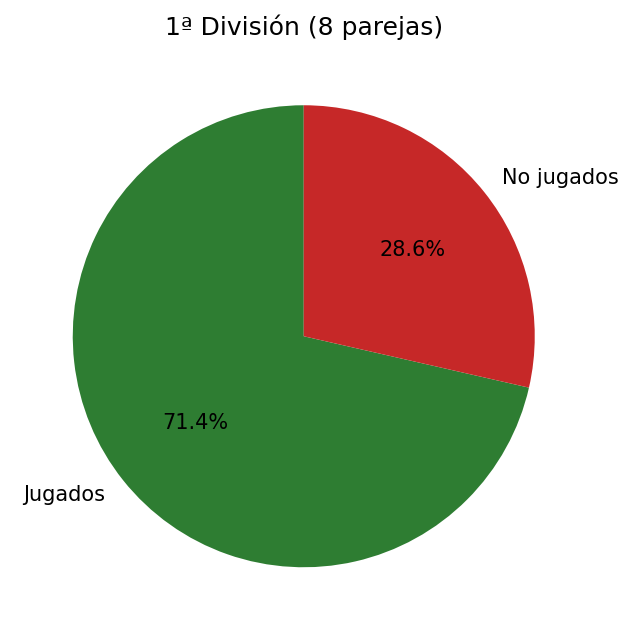
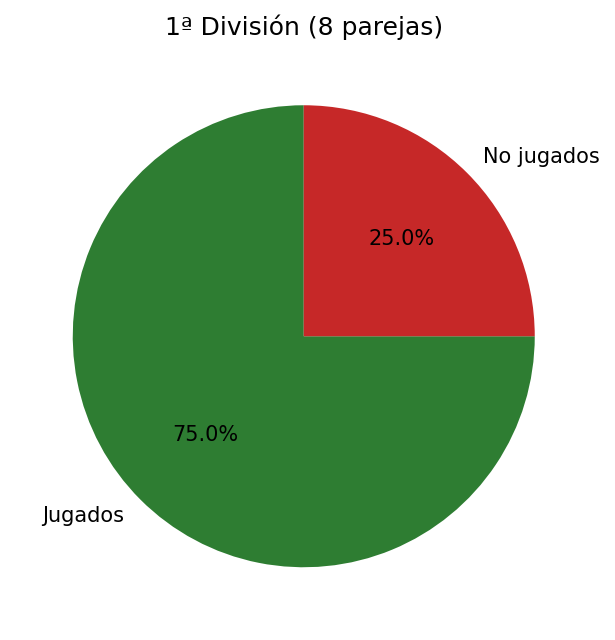
Add functions for match count calculations and update summary output in estadoLiga.py

diff --git a/sources/estadoLiga.py b/sources/estadoLiga.py
@@ -17,6 +17,18 @@ def division_sort_key(name):
     return int(match.group()) if match else 999
 
 
+def unique_match_count(pair_match_count):
+    return pair_match_count / 2
+
+
+def expected_match_count(pair_count):
+    return pair_count * (pair_count - 1) // 2
+
+
+def format_match_count(value):
+    return int(value) if value == int(value) else value
+
+
 base_dir = Path(__file__).resolve().parent
 data_file = base_dir / "clasificacion.json"
 api_base = "https://club-padel-api-12f28391bbbd.herokuapp.com"
@@ -51,27 +63,31 @@ data = [
     if (x.get("division") or {}).get("nombre", "Sin división") not in excluded_divisions
 ]
 
-total_jugados = sum(x.get("partidosJugados", 0) for x in data)
-total_no_jugados = sum(x.get("noJugados", 0) for x in data)
-total = total_jugados + total_no_jugados
+by_div = defaultdict(lambda: {"jugados": 0, "no": 0, "parejas": 0})
+for x in data:
+    div = (x.get("division") or {}).get("nombre", "Sin división")
+    by_div[div]["jugados"] += x.get("partidosJugados", 0)
+    by_div[div]["parejas"] += 1
+
+for values in by_div.values():
+    values["jugados"] = unique_match_count(values["jugados"])
+    values["total"] = expected_match_count(values["parejas"])
+    values["no"] = max(values["total"] - values["jugados"], 0)
+
+total_jugados = sum(x["jugados"] for x in by_div.values())
+total = sum(x["total"] for x in by_div.values())
+total_no_jugados = max(total - total_jugados, 0)
 
 pct_j = (total_jugados / total * 100) if total else 0
 pct_nj = (total_no_jugados / total * 100) if total else 0
 
 print("=== RESUMEN GENERAL ===")
 print(f"Parejas: {len(data)}")
-print(f"Jugados: {total_jugados}")
-print(f"No jugados: {total_no_jugados}")
-print(f"Total: {total}")
+print(f"Jugados: {format_match_count(total_jugados)}")
+print(f"No jugados: {format_match_count(total_no_jugados)}")
+print(f"Total: {format_match_count(total)}")
 print(f"% Jugados: {pct_j:.2f}%")
 print(f"% No jugados: {pct_nj:.2f}%")
-
-by_div = defaultdict(lambda: {"jugados": 0, "no": 0, "parejas": 0})
-for x in data:
-    div = (x.get("division") or {}).get("nombre", "Sin división")
-    by_div[div]["jugados"] += x.get("partidosJugados", 0)
-    by_div[div]["no"] += x.get("noJugados", 0)
-    by_div[div]["parejas"] += 1
 
 divisiones = sorted(by_div.keys(), key=division_sort_key)
 
@@ -82,8 +98,8 @@ for div in divisiones:
     pj = (v["jugados"] * 100 / t) if t else 0
     pnj = (v["no"] * 100 / t) if t else 0
     print(
-        f"{div}: parejas={v['parejas']}, jugados={v['jugados']} ({pj:.2f}%), "
-        f"no jugados={v['no']} ({pnj:.2f}%)"
+        f"{div}: parejas={v['parejas']}, jugados={format_match_count(v['jugados'])} ({pj:.2f}%), "
+        f"no jugados={format_match_count(v['no'])} ({pnj:.2f}%)"
     )
 
 if not plt:
@@ -111,7 +127,7 @@ ax.pie(
 ax.text(
     0,
     0,
-    f"Jugados\n{total_jugados}",
+    f"Jugados\n{format_match_count(total_jugados)}",
     ha="center",
     va="center",
     fontsize=14,
@@ -138,7 +154,7 @@ for idx, jugados_div in enumerate(jugados_vals):
     ax.text(
         idx,
         jugados_div,
-        f"{jugados_div}",
+        f"{format_match_count(jugados_div)}",
         ha="center",
         va="bottom",
         fontsize=9,
